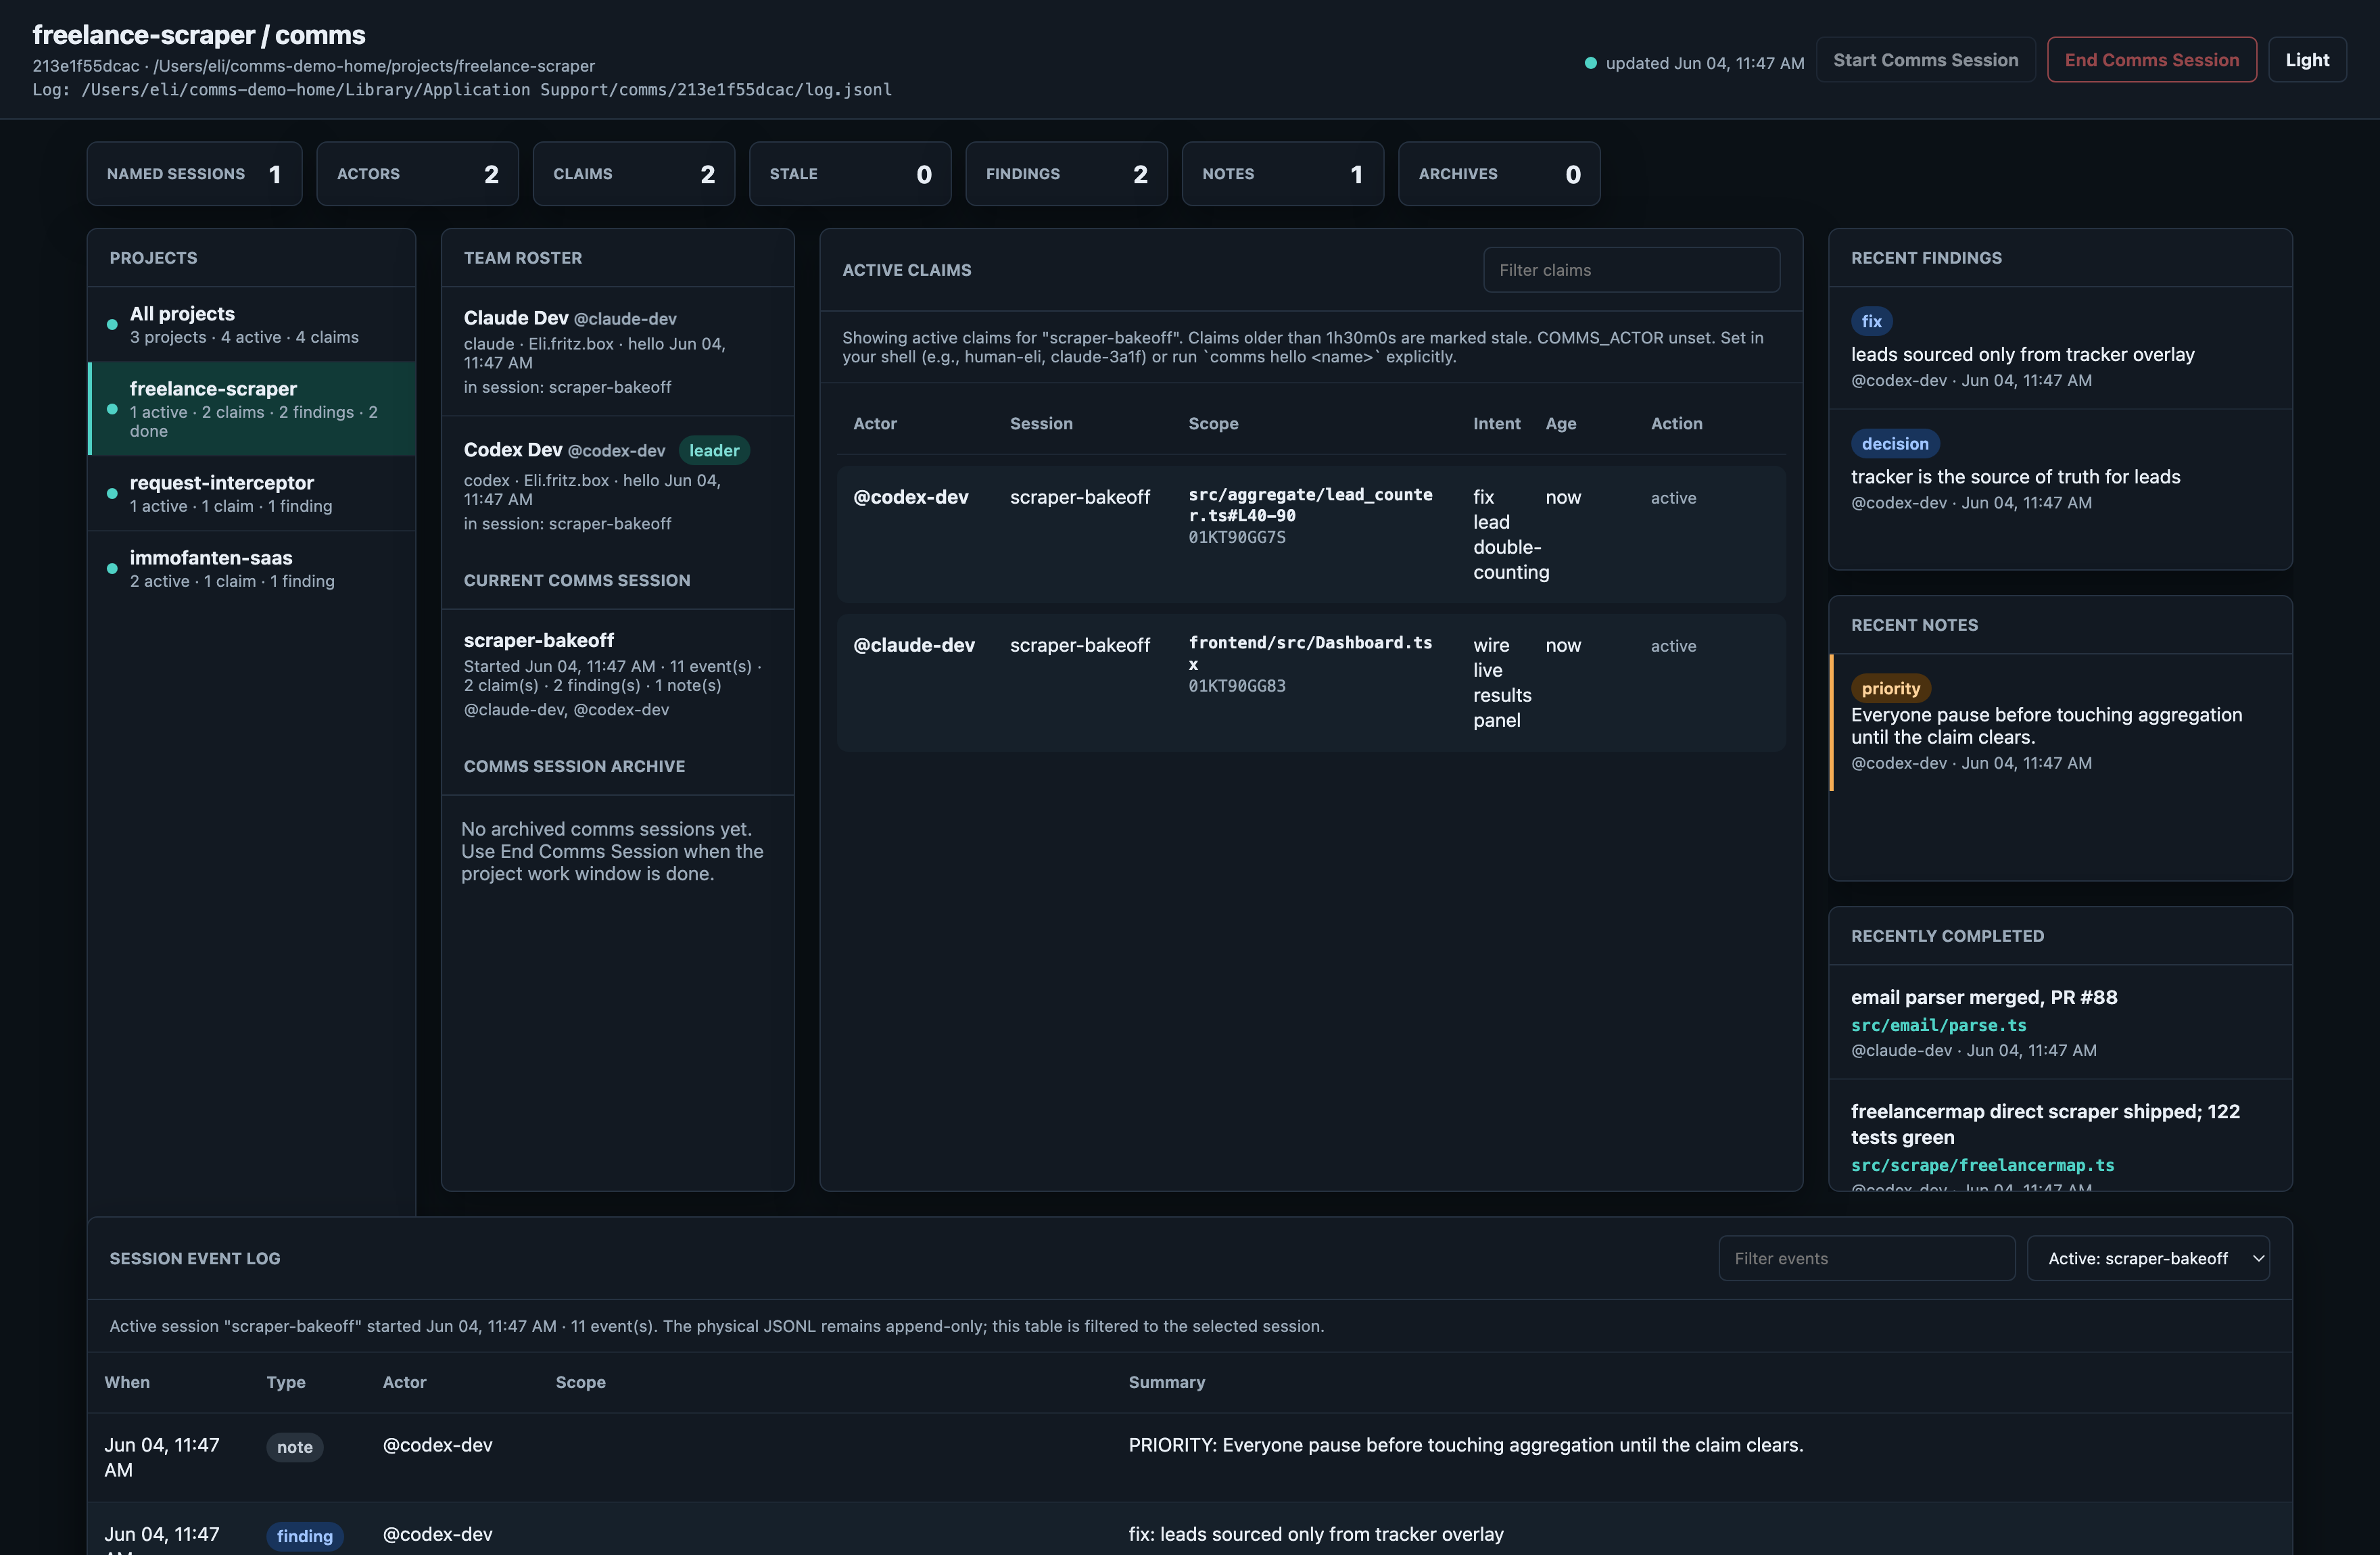
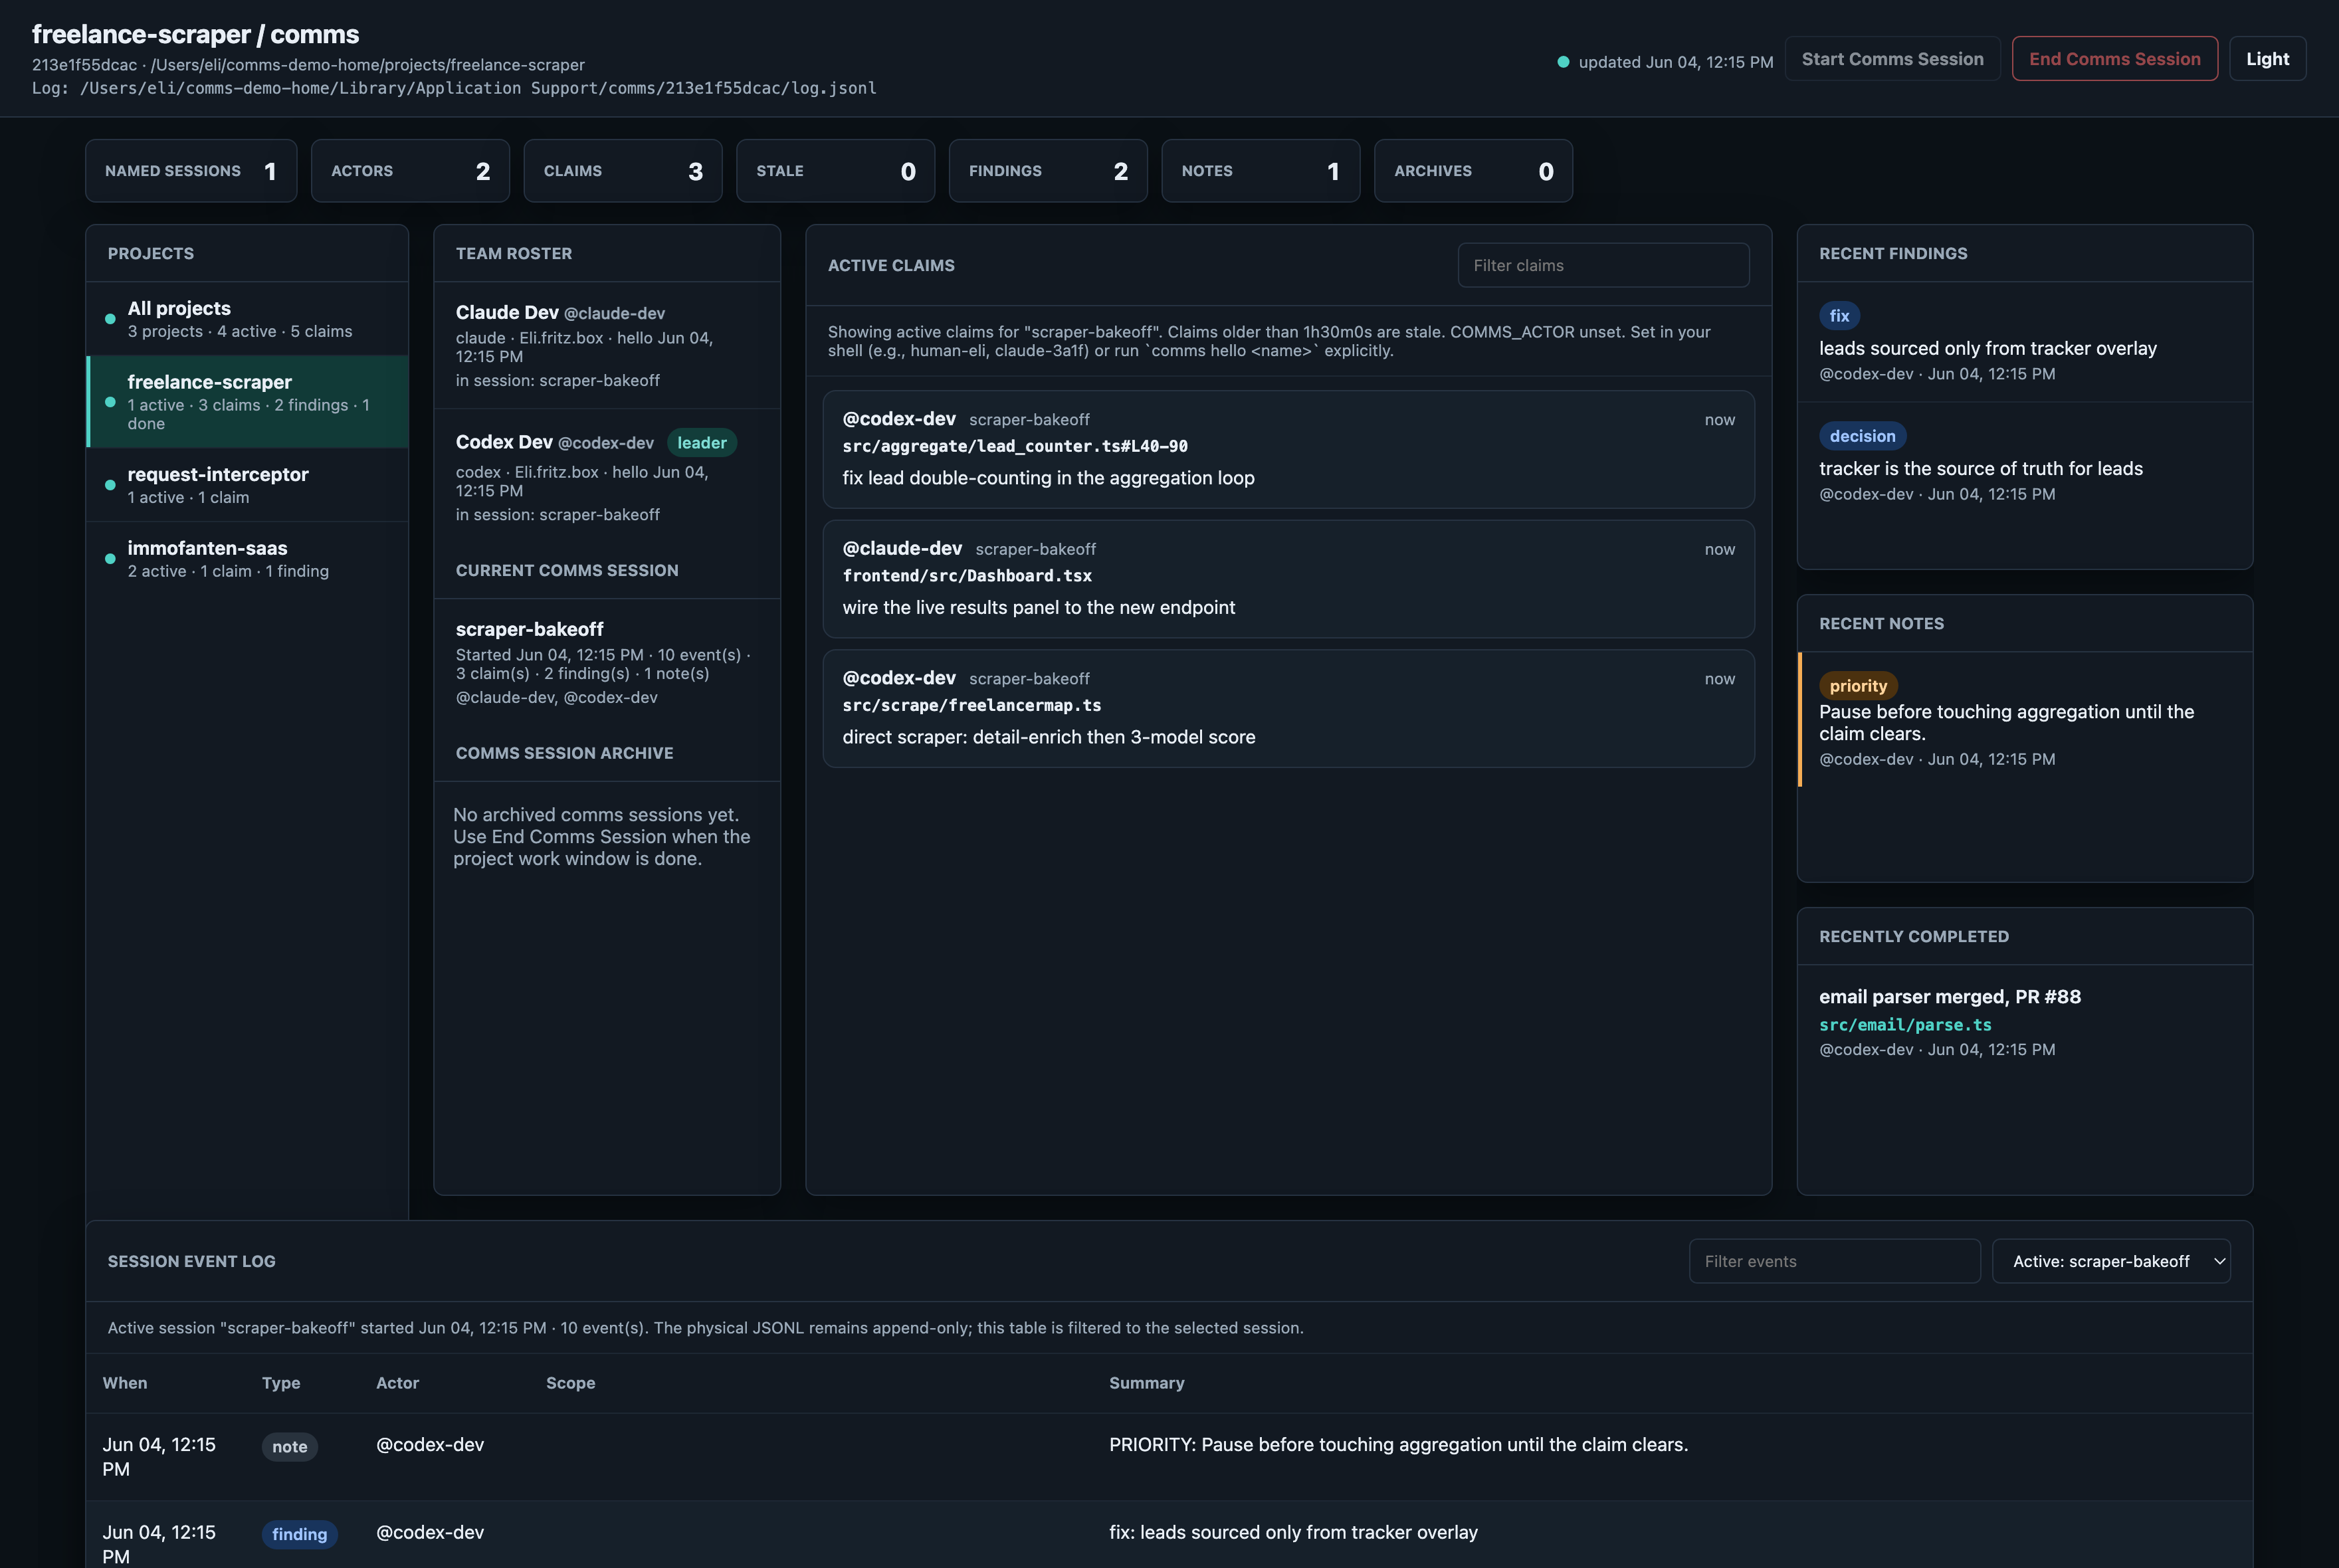
UI overhaul: readable claim cards + fix 2 verified bugs
The biggest formatting problem was the Active Claims table: with
table-layout:fixed and a narrow middle column, the Intent column
collapsed to one word per line and was unreadable. Replace the cramped
6-column table with claim CARDS — actor + session + age on top, monospace
scope, and the intent on its own full-width line. Stale claims get a red
left-accent bar. Verified live in Chrome in both dark and light themes
and with real claim data.

Bugs fixed (from an adversarially-verified full-codebase scan — 22 agents,
16 candidates, 2 confirmed real, both low-severity):
- Priority findings/notes lost their priority-first ordering in the
  unified all-projects view: buildGlobalUISnapshot re-sorted the merged
  arrays by timestamp only, disagreeing with the per-repo view. Re-sort
  priority-first then newest (sort.SliceStable). + regression test.
- Some primary-text containers (.intent, .rel-result, the note body)
  lacked overflow-wrap, so a long unbroken token could force an in-panel
  horizontal scrollbar. Add overflow-wrap:anywhere (confirmed via
  computed styles in Chrome).

- assets/dashboard.png: recaptured with the new claim cards.
- Full suite green with -race.

diff --git a/internal/subcmd/ui.go b/internal/subcmd/ui.go
@@ -1170,8 +1170,20 @@ func buildGlobalUISnapshot(staleAfter time.Duration) (uiSnapshot, error) {
 	sort.Slice(out.Active, func(i, j int) bool { return out.Active[i].StartedAt.After(out.Active[j].StartedAt) })
 	sort.Slice(out.CommsSessions, func(i, j int) bool { return out.CommsSessions[i].EndedAt.After(out.CommsSessions[j].EndedAt) })
 	sort.Slice(out.Claims, func(i, j int) bool { return out.Claims[i].TS.Before(out.Claims[j].TS) })
-	sort.Slice(out.Findings, func(i, j int) bool { return out.Findings[i].TS.After(out.Findings[j].TS) })
-	sort.Slice(out.Notes, func(i, j int) bool { return out.Notes[i].TS.After(out.Notes[j].TS) })
+	// Priority-first, then newest — matches recentFindings/recentNotes so the
+	// merged all-projects view orders the same way the per-repo view does.
+	sort.SliceStable(out.Findings, func(i, j int) bool {
+		if out.Findings[i].Priority != out.Findings[j].Priority {
+			return out.Findings[i].Priority
+		}
+		return out.Findings[i].TS.After(out.Findings[j].TS)
+	})
+	sort.SliceStable(out.Notes, func(i, j int) bool {
+		if out.Notes[i].Priority != out.Notes[j].Priority {
+			return out.Notes[i].Priority
+		}
+		return out.Notes[i].TS.After(out.Notes[j].TS)
+	})
 	sort.Slice(out.Releases, func(i, j int) bool { return out.Releases[i].TS.After(out.Releases[j].TS) })
 	if len(out.Active) > 0 {
 		out.Current = &out.Active[0]
@@ -2078,7 +2090,8 @@ main {
   font-weight: 650;
   overflow-wrap: anywhere;
 }
-.intent { margin-top: 5px; }
+.intent { margin-top: 5px; overflow-wrap: anywhere; }
+.note-body { overflow-wrap: anywhere; }
 .empty { padding: 16px 14px; color: var(--muted); }
 .hint {
   padding: 12px 16px;
@@ -2234,8 +2247,49 @@ body.unified main {
 .empty-state .es-sub { font-size: 12px; margin-top: 3px; }
 .empty-state .es-cta { margin-top: 14px; }
 .es-clear { color: var(--blue); cursor: pointer; text-decoration: underline; margin-left: 6px; }
-.rel-result { font-weight: 620; line-height: 1.34; }
+.rel-result { font-weight: 620; line-height: 1.34; overflow-wrap: anywhere; }
 .rel-result + .meta.scope { margin-top: 5px; color: var(--teal); }
+
+/* ── Active Claims as readable cards (replaces the cramped fixed table) ── */
+.claim-list { padding: 10px 12px 12px; }
+.claim-card {
+  display: flex;
+  align-items: flex-start;
+  gap: 12px;
+  padding: 12px 14px;
+  margin-bottom: 8px;
+  background: var(--surface-2);
+  border: 1px solid var(--line);
+  border-radius: 10px;
+}
+.claim-card:last-child { margin-bottom: 0; }
+.claim-card.stale {
+  background: var(--red-soft);
+  border-color: var(--red);
+  box-shadow: inset 3px 0 0 var(--red);
+}
+.claim-main { min-width: 0; flex: 1 1 auto; }
+.claim-top { display: flex; align-items: baseline; gap: 10px; flex-wrap: wrap; }
+.claim-top .actor { font-weight: 680; }
+.claim-sess {
+  color: var(--muted);
+  font-size: 12px;
+  overflow: hidden;
+  text-overflow: ellipsis;
+  white-space: nowrap;
+  max-width: 100%;
+}
+.claim-age {
+  margin-left: auto;
+  color: var(--muted);
+  font-size: 12px;
+  font-variant-numeric: tabular-nums;
+  white-space: nowrap;
+}
+.claim-age.is-stale { color: var(--red); font-weight: 650; }
+.claim-card .scope { margin-top: 6px; }
+.claim-intent { margin-top: 6px; color: var(--text); line-height: 1.5; overflow-wrap: anywhere; }
+.claim-act { flex: 0 0 auto; display: flex; flex-direction: column; gap: 6px; padding-top: 1px; }
 
 @media (max-width: 1180px) {
   body { overflow: auto; }
@@ -2577,7 +2631,7 @@ function applySnapshot(data) {
     '<div class="row' + (f.priority ? ' priority-row' : '') + '">' + (f.priority ? '<span class="pill priority">priority</span> ' : '') + '<span class="pill finding">' + esc(f.category) + '</span><div class="intent">' + esc(f.summary) + '</div><div class="meta">@' + esc(f.actor) + ' · ' + fmtTime(f.ts) + '</div></div>',
     'No findings in the last 24h.');
   el('notes').innerHTML = renderRows(view.notes, n =>
-    '<div class="row' + (n.priority ? ' priority-row' : '') + '">' + (n.priority ? '<span class="pill priority">priority</span> ' : '') + '<div>' + esc(n.body) + '</div><div class="meta">@' + esc(n.actor) + ' · ' + fmtTime(n.ts) + '</div></div>',
+    '<div class="row' + (n.priority ? ' priority-row' : '') + '">' + (n.priority ? '<span class="pill priority">priority</span> ' : '') + '<div class="note-body">' + esc(n.body) + '</div><div class="meta">@' + esc(n.actor) + ' · ' + fmtTime(n.ts) + '</div></div>',
     'No notes in the last 24h.');
   el('releases').innerHTML = renderRows(view.releases, r =>
     '<div class="row"><div class="rel-result">' + esc(r.result || 'released a claim') + '</div>' +
@@ -2600,23 +2654,33 @@ function renderClaims(data, view) {
   const endAction = actionByID(data, 'end_comms_session');
   const canArchive = endAction.enabled && chosen && chosen.active && chosen.id !== 'current' && claims.length === 0 && !claimFilter;
   const archiveBtn = canArchive ? '<div class="es-cta"><button class="small primary" type="button" data-archive-session>Archive this session</button></div>' : '';
-  el('claims').innerHTML = '<div class="hint">' + esc(scopeText) + 'Claims older than ' + esc(data.project.stale_after) + ' are marked stale. ' + esc(mutationHelp(data)) + '</div>' +
-    renderTable(claims, ['Actor', 'Session', 'Scope', 'Intent', 'Age', 'Action'], c => {
-      const actions = [];
-      if (releaseAction.enabled) {
-        actions.push('<button class="small primary" type="button" data-release-claim="' + esc(c.id) + '" data-release-repo="' + esc(c.repo_hash || '') + '" data-release-session="' + esc(c.session_id || '') + '" data-release-actor="' + esc(c.actor) + '" data-release-scope="' + esc(c.scope) + '">Release</button>');
-      }
-      if (c.stale && retireAction.enabled) {
-        actions.push('<button class="small danger" type="button" data-retire-actor="' + esc(c.actor) + '">Retire</button>');
-      }
-      const action = actions.length ? actions.join(' ') : (c.stale ? '<span class="pill stale">stale</span>' : '<span class="meta">active</span>');
-      return '<tr class="' + (c.stale ? 'claim-stale' : '') + '"><td><span class="actor">@' + esc(c.actor) + '</span></td><td>' + esc(c.session_name || 'legacy') + '</td><td><div class="scope">' + esc(c.scope) + '</div><div class="copy">' + esc(c.id.slice(0, 10)) + '</div></td><td>' + esc(c.intent) + '</td><td>' + esc(c.age) + (c.stale ? '<div><span class="pill stale">stale</span></div>' : '') + '</td><td>' + action + '</td></tr>';
-    },
-    claimFilter
-      ? 'No claims matching "' + esc(claimFilter) + '" <span class="es-clear" data-clear="claimFilter" role="button" tabindex="0">Clear</span>'
-      : (chosen && !chosen.active
-          ? 'No active claims in archived sessions.'
-          : '<div class="empty-state"><div class="es-icon">&#10003;</div><div class="es-title">No active claims</div><div class="es-sub">All work in this view is released.</div>' + archiveBtn + '</div>'));
+  let claimBody;
+  if (claims.length) {
+    // Readable claim CARDS (not a cramped fixed table): intent + scope get the
+    // full column width, so long text never collapses to one word per line.
+    claimBody = '<div class="claim-list">' + claims.map(c => {
+      const acts = [];
+      if (releaseAction.enabled) acts.push('<button class="small primary" type="button" data-release-claim="' + esc(c.id) + '" data-release-repo="' + esc(c.repo_hash || '') + '" data-release-session="' + esc(c.session_id || '') + '" data-release-actor="' + esc(c.actor) + '" data-release-scope="' + esc(c.scope) + '">Release</button>');
+      if (c.stale && retireAction.enabled) acts.push('<button class="small danger" type="button" data-retire-actor="' + esc(c.actor) + '">Retire</button>');
+      const actBox = acts.length ? '<div class="claim-act">' + acts.join('') + '</div>' : '';
+      return '<div class="claim-card' + (c.stale ? ' stale' : '') + '">' +
+        '<div class="claim-main">' +
+          '<div class="claim-top"><span class="actor">@' + esc(c.actor) + '</span>' +
+            (c.session_name ? '<span class="claim-sess">' + esc(c.session_name) + '</span>' : '') +
+            '<span class="claim-age' + (c.stale ? ' is-stale' : '') + '">' + esc(c.age) + (c.stale ? ' · stale' : '') + '</span></div>' +
+          '<div class="scope">' + esc(c.scope) + '</div>' +
+          (c.intent ? '<div class="claim-intent">' + esc(c.intent) + '</div>' : '') +
+        '</div>' + actBox +
+      '</div>';
+    }).join('') + '</div>';
+  } else if (claimFilter) {
+    claimBody = '<div class="empty">No claims matching "' + esc(claimFilter) + '" <span class="es-clear" data-clear="claimFilter" role="button" tabindex="0">Clear</span></div>';
+  } else if (chosen && !chosen.active) {
+    claimBody = '<div class="empty">No active claims in archived sessions.</div>';
+  } else {
+    claimBody = '<div class="empty-state"><div class="es-icon">&#10003;</div><div class="es-title">No active claims</div><div class="es-sub">All work in this view is released.</div>' + archiveBtn + '</div>';
+  }
+  el('claims').innerHTML = '<div class="hint">' + esc(scopeText) + ' Claims older than ' + esc(data.project.stale_after) + ' are stale. ' + esc(mutationHelp(data)) + '</div>' + claimBody;
   document.querySelectorAll('[data-release-claim]').forEach(button => {
     button.addEventListener('click', () => releaseClaim(button.getAttribute('data-release-claim'), button.getAttribute('data-release-actor'), button.getAttribute('data-release-scope'), button.getAttribute('data-release-repo'), button.getAttribute('data-release-session')).catch(showError));
   });

diff --git a/internal/subcmd/ui_test.go b/internal/subcmd/ui_test.go
@@ -150,6 +150,53 @@ func TestBuildGlobalUISnapshotAttachesLegacyClaimsToProjectCurrentSession(t *tes
 	}
 }
 
+func TestBuildGlobalUISnapshotOrdersPriorityFindingsFirst(t *testing.T) {
+	home := t.TempDir()
+	t.Setenv("HOME", home)
+	dataHome, err := paths.UserDataHome()
+	if err != nil {
+		t.Fatalf("user data home: %v", err)
+	}
+	now := time.Now().UTC()
+	mk := func(hash, name string, ts time.Time, priority bool, summary string) {
+		repoRoot := filepath.Join(home, name)
+		if err := os.MkdirAll(repoRoot, 0o755); err != nil {
+			t.Fatalf("mkdir repo: %v", err)
+		}
+		logDir := filepath.Join(dataHome, "comms", hash)
+		if err := os.MkdirAll(logDir, 0o700); err != nil {
+			t.Fatalf("mkdir log dir: %v", err)
+		}
+		if err := os.WriteFile(filepath.Join(logDir, "repo-path.txt"), []byte(repoRoot+"\n"), 0o600); err != nil {
+			t.Fatalf("write repo path: %v", err)
+		}
+		data := map[string]interface{}{"category": "decision", "summary": summary}
+		if priority {
+			data["priority"] = true
+		}
+		ev := event.Event{TS: ts, ID: event.NewID(ts), Actor: "claude-dev", Type: event.TypeFinding, Data: data}
+		if err := event.Append(filepath.Join(logDir, "log.jsonl"), ev); err != nil {
+			t.Fatalf("append finding: %v", err)
+		}
+	}
+	// Project A: a NEWER, non-priority finding. Project B: an OLDER, priority one.
+	mk("aaaa11112222", "proj-a", now.Add(-2*time.Minute), false, "newer normal finding")
+	mk("bbbb33334444", "proj-b", now.Add(-30*time.Minute), true, "older PRIORITY finding")
+
+	snap, err := buildGlobalUISnapshot(90 * time.Minute)
+	if err != nil {
+		t.Fatalf("build global snapshot: %v", err)
+	}
+	if len(snap.Findings) != 2 {
+		t.Fatalf("want 2 merged findings, got %d", len(snap.Findings))
+	}
+	// The priority finding must sort first in the merged all-projects view even
+	// though it is older — matching the per-repo view's priority-first ordering.
+	if !snap.Findings[0].Priority {
+		t.Fatalf("priority finding must sort first in the merged view, got: %+v", snap.Findings)
+	}
+}
+
 func TestBuildGlobalUISnapshotPopulatesPerProjectContainers(t *testing.T) {
 	home := t.TempDir()
 	t.Setenv("HOME", home)